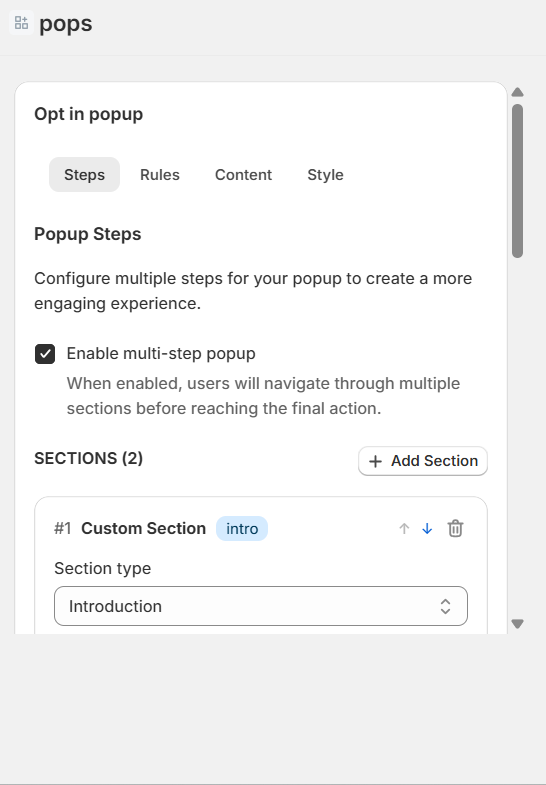
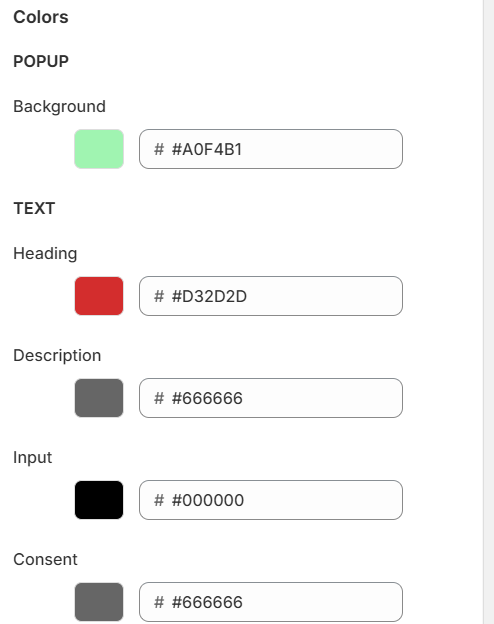
align color box

diff --git a/app/components/ColorPickerField.tsx b/app/components/ColorPickerField.tsx
@@ -119,10 +119,16 @@ export function ColorPickerField({ label, value, onChange }: ColorPickerFieldPro
   );
 
   return (
-    <BlockStack gap="200">
-      <Text as="p" variant="bodyMd">
-        {label}
-      </Text>
+    <InlineStack gap="300" align="start">
+      <div style={{ 
+        display: "flex", 
+        alignItems: "center", 
+        minWidth: "120px" 
+      }}>
+        <Text as="p" variant="bodyMd">
+          {label}
+        </Text>
+      </div>
       
       <InlineStack gap="300" align="center">
         <Popover
@@ -163,6 +169,6 @@ export function ColorPickerField({ label, value, onChange }: ColorPickerFieldPro
           />
         </div>
       </InlineStack>
-    </BlockStack>
+    </InlineStack>
   );
 }
